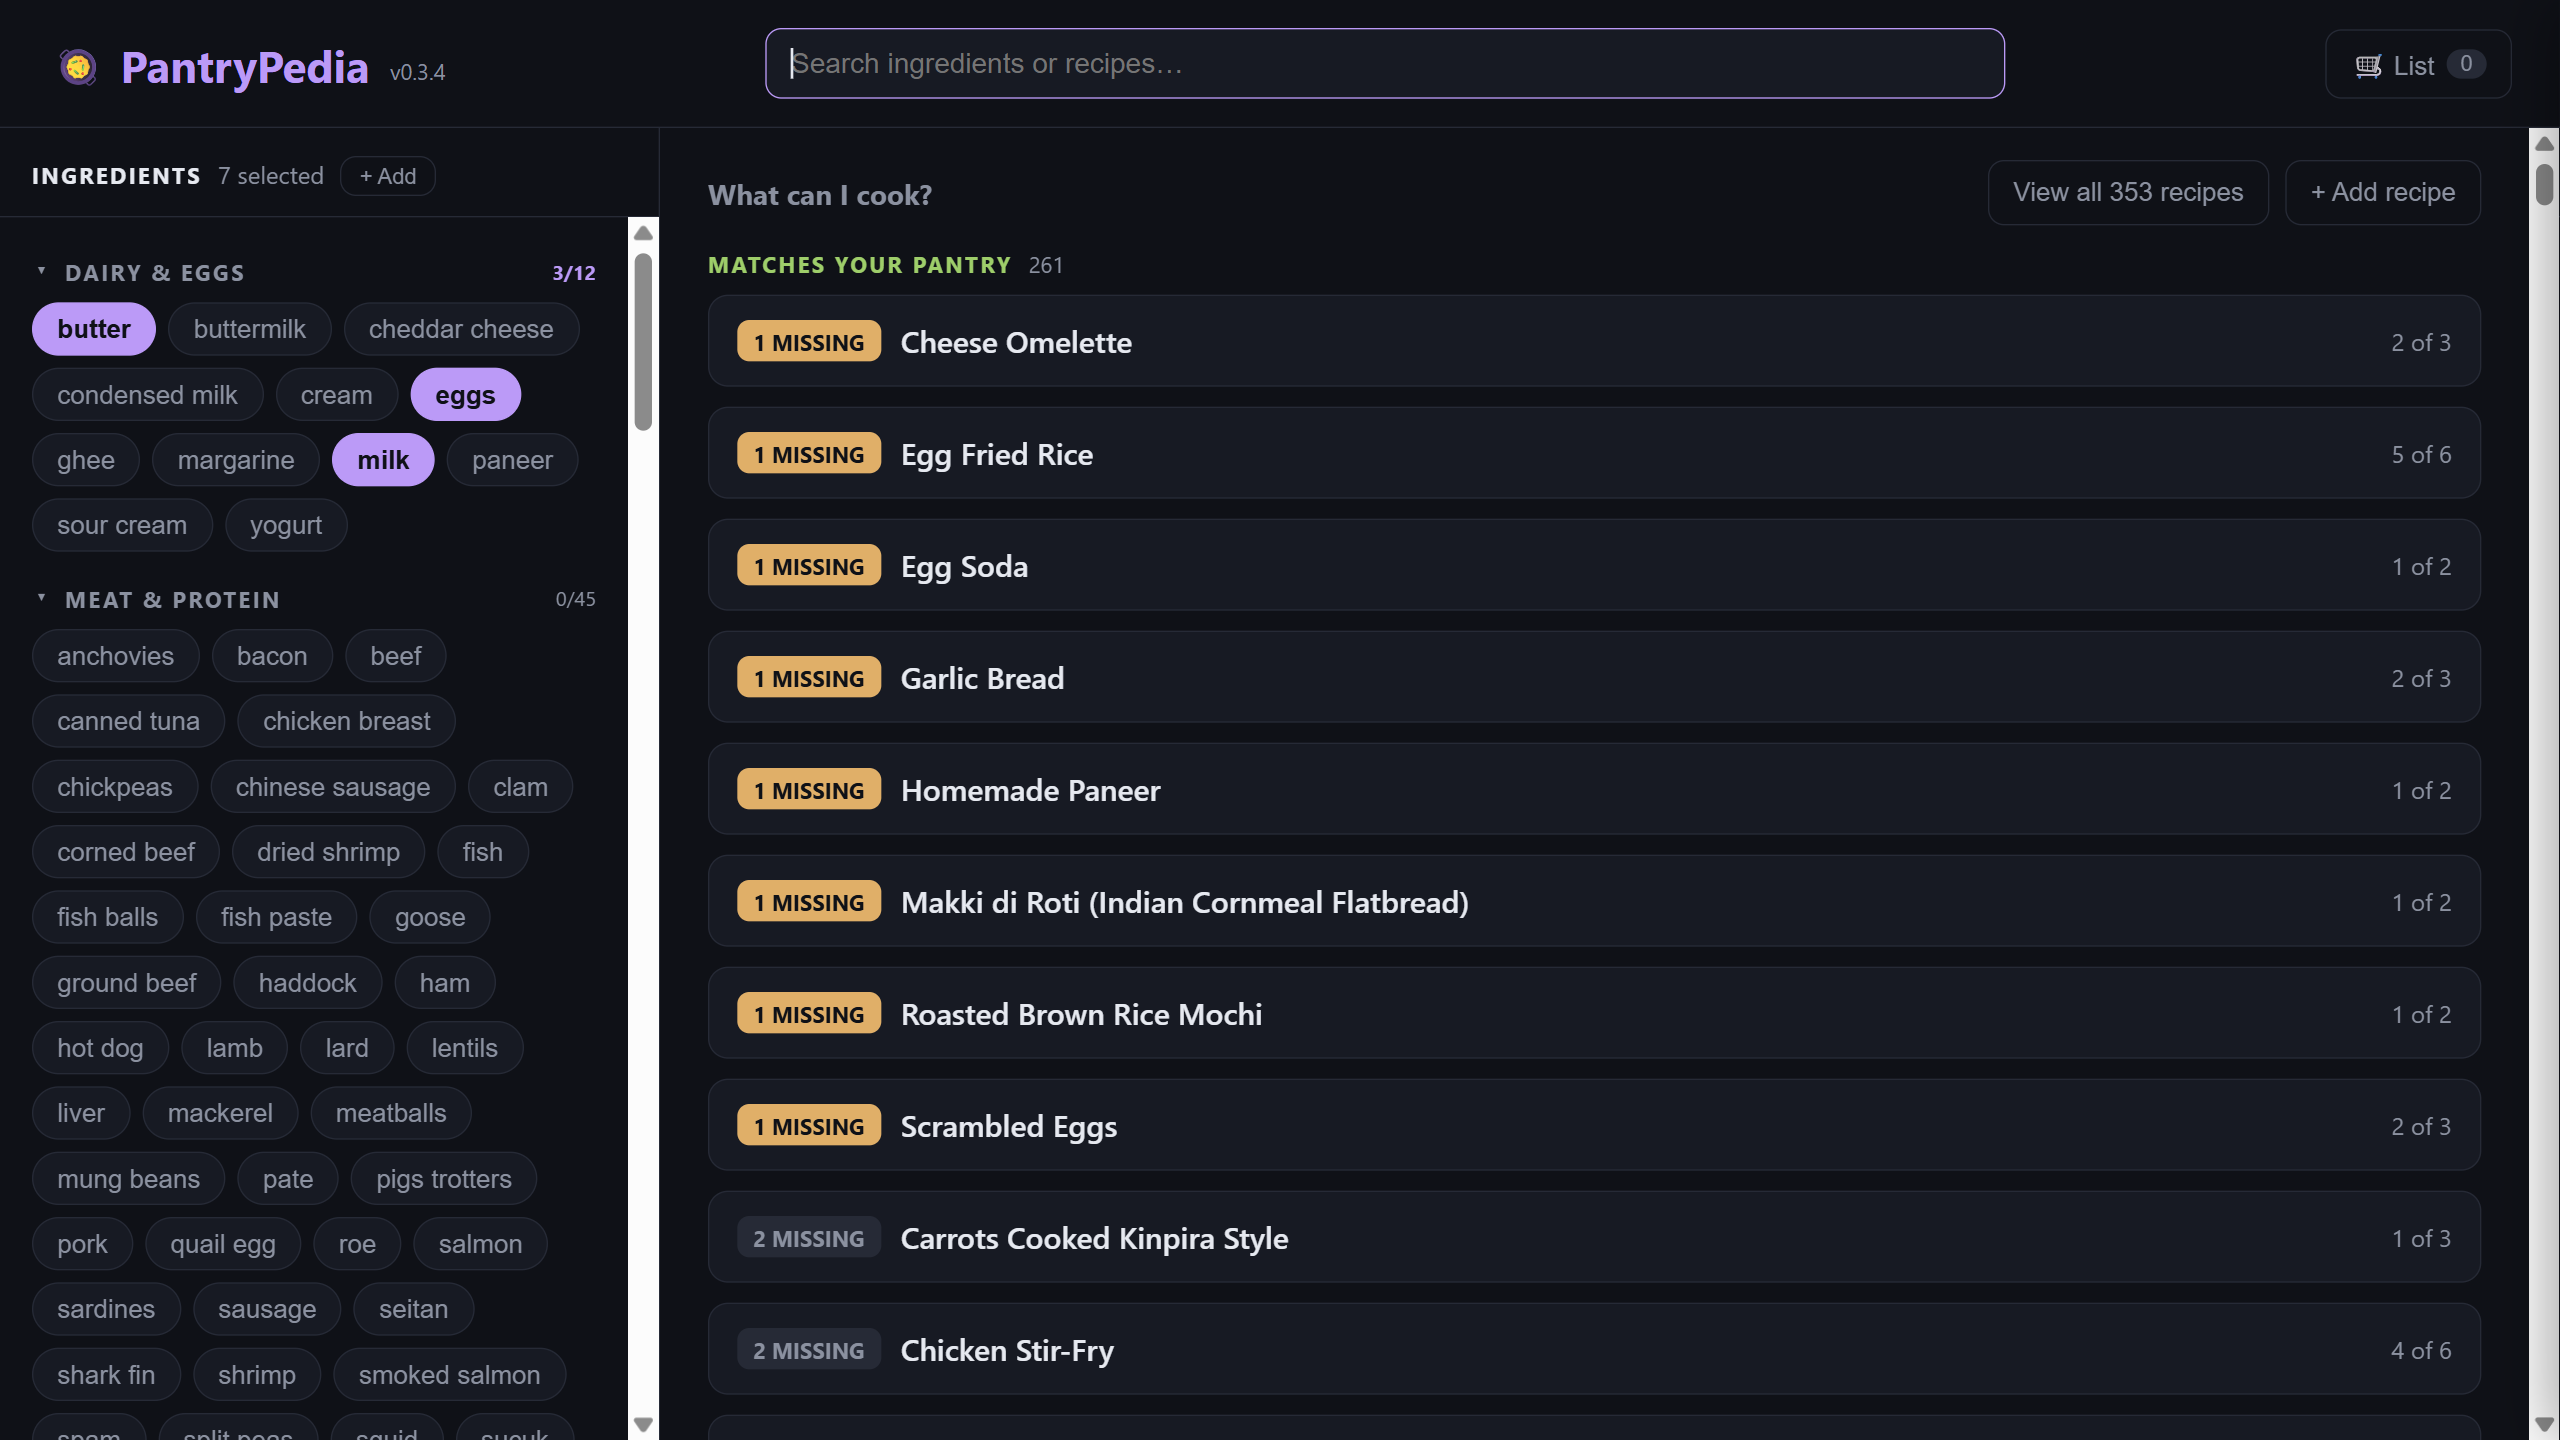
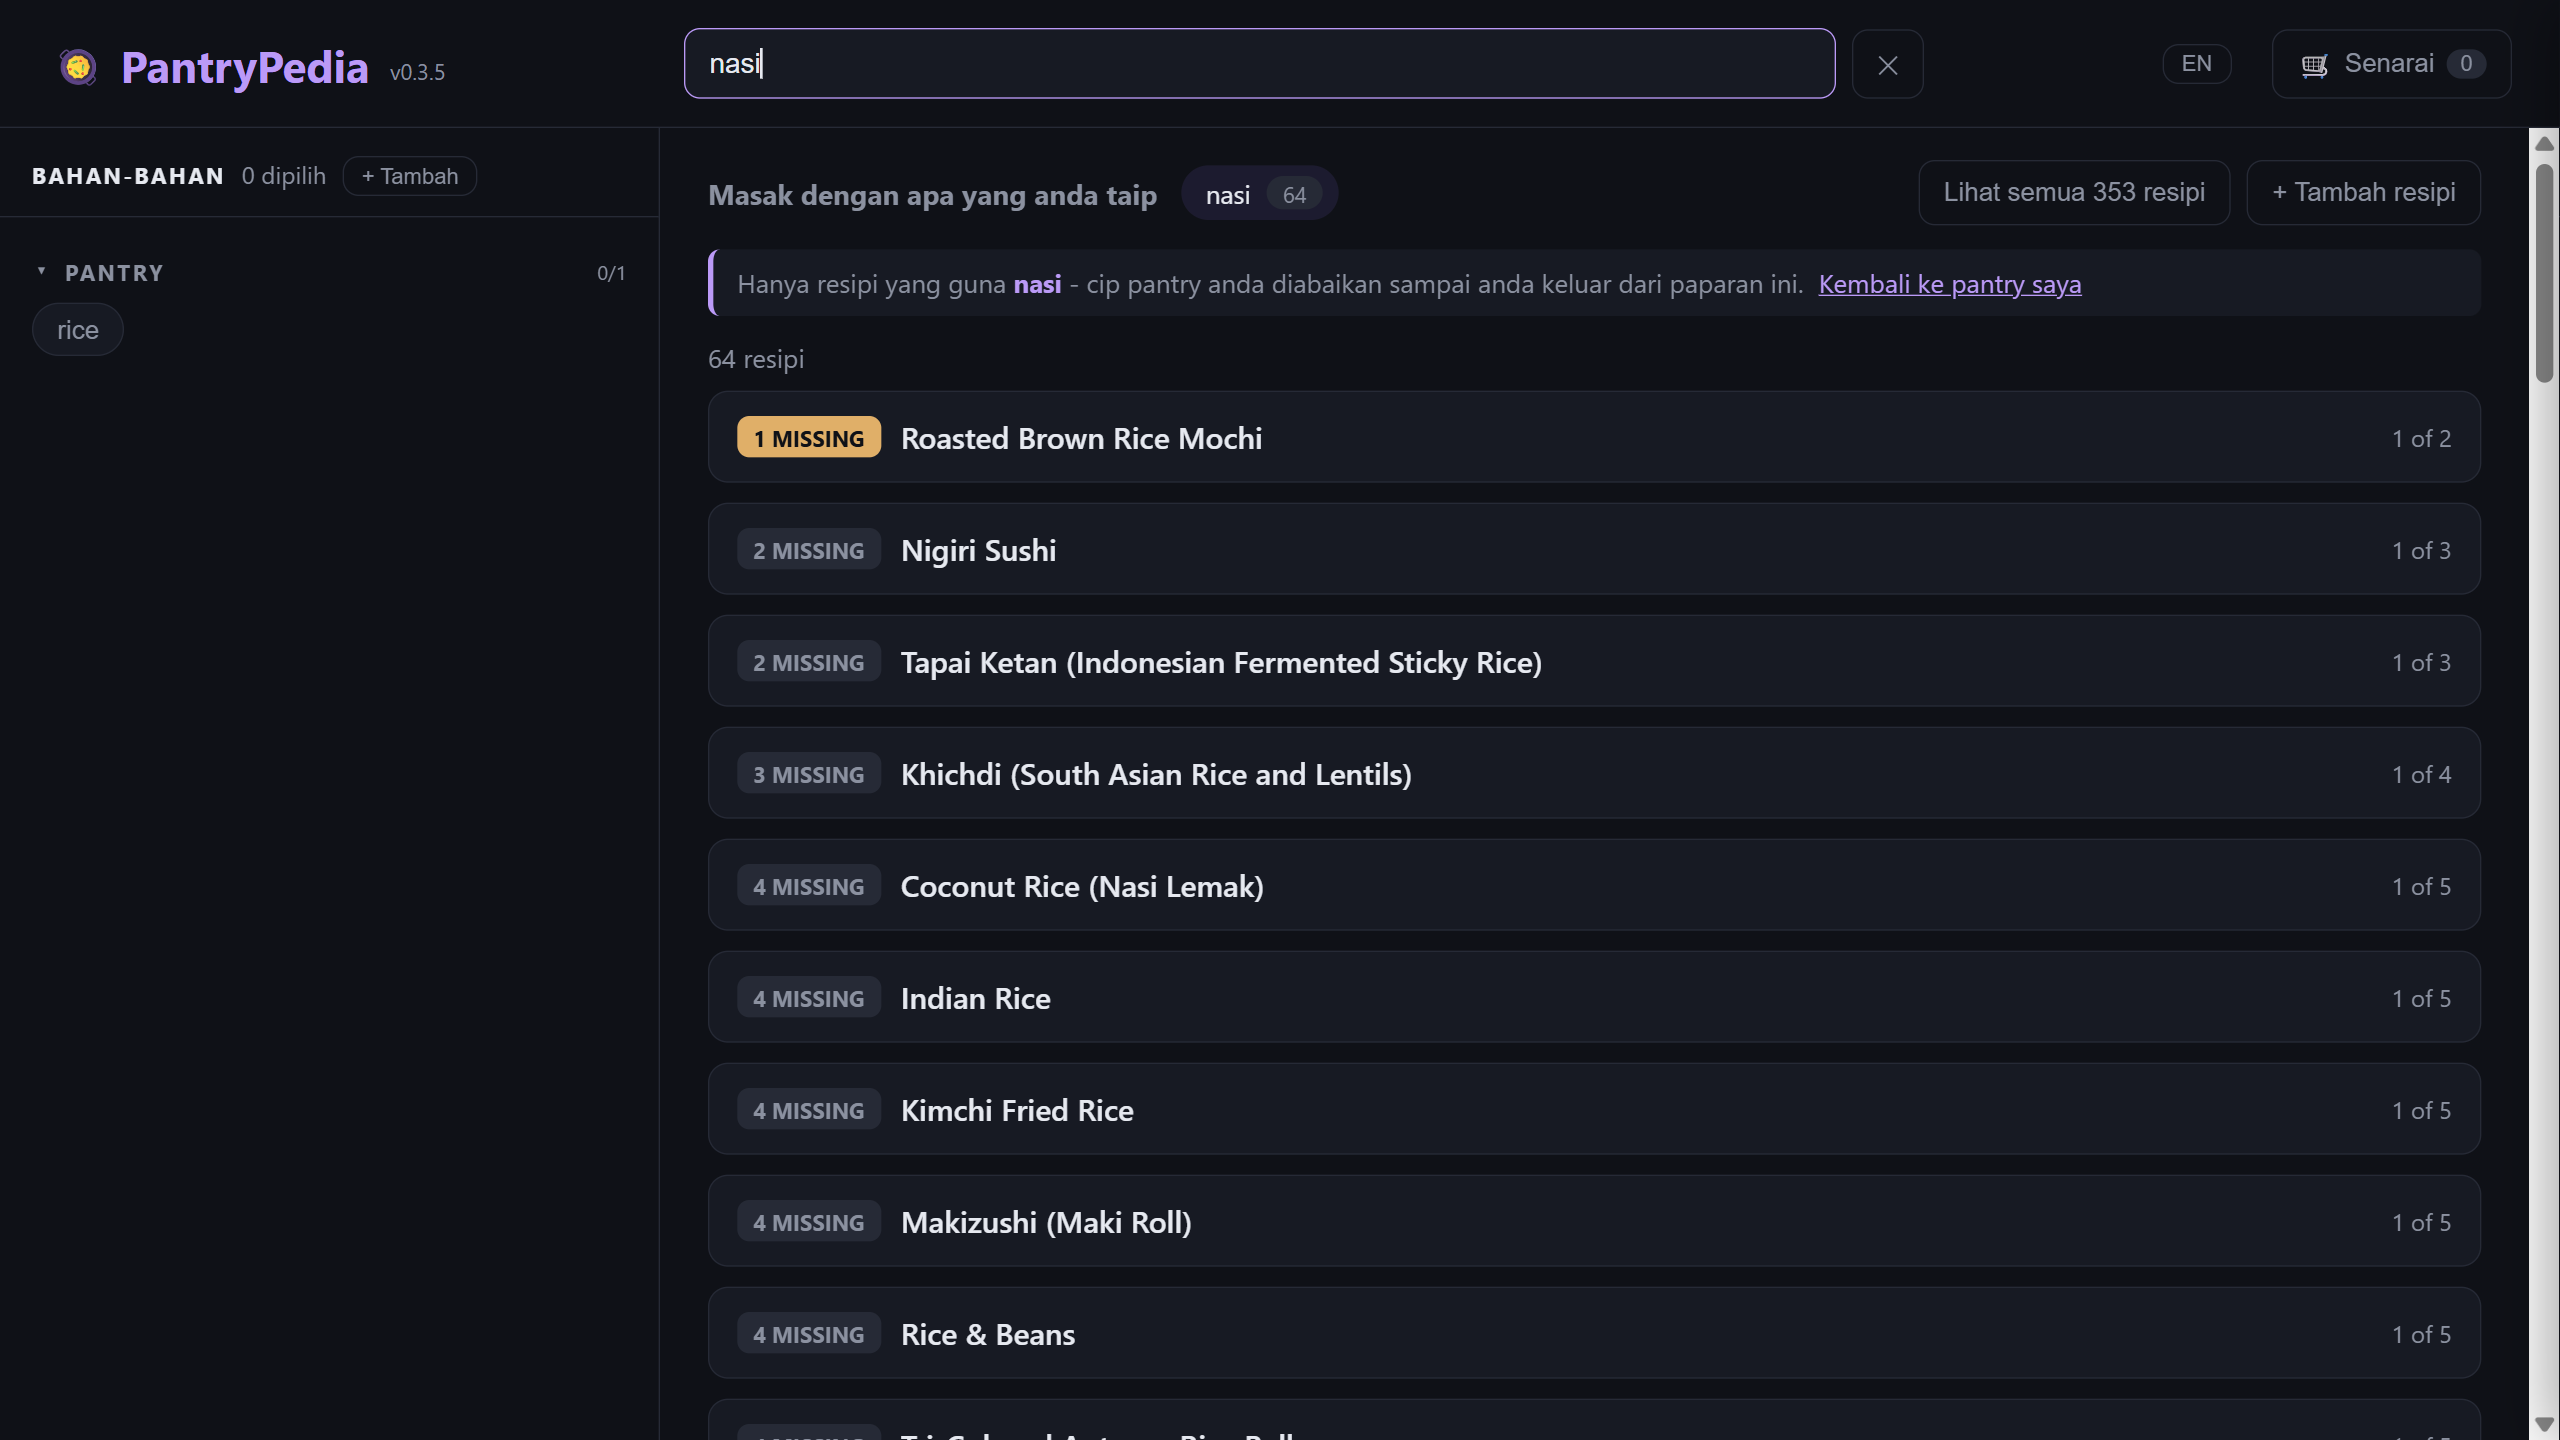
Release PantryPedia 0.3.5

diff --git a/tools/verify/capture-social-shot.js b/tools/verify/capture-social-shot.js
@@ -1,5 +1,6 @@
 // Capture a clean app screenshot for the GitHub social preview.
-// Launches through run-cdp.ps1 like the other suites.
+// Shows the 0.3.5 search chip: typing "nasi" ranks the recipes automatically
+// and the passive chip reports how many were found.
 import { writeFileSync } from "node:fs";
 import { connect } from "./cdp.mjs";
 
@@ -9,20 +10,26 @@ const { evaluate, send, waitFor } = await connect(port);
 
 await waitFor("!!document.querySelector('#match-list .start')");
 
-// A few everyday ingredients so the ranked list has something to show.
-await evaluate(`(async () => {
-  const invoke = window.__TAURI__.core.invoke;
-  const all = await invoke("get_ingredients");
-  const wanted = ["rice", "eggs", "butter", "garlic", "soy sauce", "milk", "onion", "chicken"];
-  for (const name of wanted) {
-    const i = all.find(x => x.name.toLowerCase() === name);
-    if (i && !i.in_pantry) await invoke("toggle_ingredient", { id: i.id });
-  }
+// Malay UI, as the new card advertises.
+await evaluate(`
+  localStorage.setItem("pantrypedia.lang", "ms");
   location.reload();
-})()`);
+`);
+await new Promise((r) => setTimeout(r, 1800));
+await waitFor("!!document.querySelector('#match-list .start')");
 
-await new Promise((r) => setTimeout(r, 1600));
-await waitFor("document.querySelectorAll('#match-list details.recipe').length > 0");
+// Type a Malay ingredient: the debounced search runs on its own.
+await evaluate(`(async () => {
+  const input = document.querySelector("#search");
+  input.value = "nasi";
+  input.dispatchEvent(new Event("input", { bubbles: true }));
+  input.dispatchEvent(new KeyboardEvent("keydown", { key: "Enter", bubbles: true }));
+  await new Promise(r => setTimeout(r, 900));
+  return {
+    chip: document.querySelector("#quick-chip")?.textContent.trim() ?? null,
+    cards: document.querySelectorAll("#match-list details.recipe").length,
+  };
+})()`);
 
 // Render at 2x so the card can scale it down without going blurry.
 await send("Emulation.setDeviceMetricsOverride", {
@@ -39,13 +46,16 @@ const shot = await send("Page.captureScreenshot", {
 });
 writeFileSync(out, Buffer.from(shot.result.data, "base64"));
 
-// Leave the test database as we found it.
+// Leave no trace: clear the search and restore English for the next suite.
 await evaluate(`(async () => {
   const invoke = window.__TAURI__.core.invoke;
-  for (const i of await invoke("get_ingredients")) {
-    if (i.in_pantry) await invoke("toggle_ingredient", { id: i.id });
-  }
-  return "clean";
+  const input = document.querySelector("#search");
+  const back = document.querySelector("#quick-off");
+  if (back) back.click();
+  input.value = "";
+  input.dispatchEvent(new Event("input", { bubbles: true }));
+  localStorage.setItem("pantrypedia.lang", "en");
+  await invoke("clear_shopping_list");
 })()`);
 
 console.log(`saved ${out}`);

diff --git a/README.md b/README.md
@@ -87,6 +87,15 @@ yourself with WhatsApp, Telegram, Phone Link, whatever you already use.
 
 ## Changelog
 
+**0.3.5** — PantryPedia now understands Malaysian groceries in Bahasa Melayu.
+Search `beras`, `ayam`, `bawang merah` or `kicap` and you get the same recipes as
+`rice`, `chicken`, `shallot` or `soy sauce` — 194 aliases from data.gov.my's
+PriceCatcher lookup. An **EN / BM** button in the header switches the app's own
+text between English and Malay and remembers your choice; recipe titles and
+steps stay in their source language. Typing also got simpler: matching recipes
+appear on their own, and the "Cook with …" button became a quiet `nasi 64` chip
+showing the word and how many recipes use it.
+
 **0.3.4** — the **🛒 Add 2 missing to list** button moved into the "you still
 need ..." row, next to the ingredient chips it puts on the list. It used to sit
 above the steps, a screen away from the chips that explain it. Same button, same
@@ -96,9 +105,9 @@ behaviour — just where you would look for it.
 once, which said nothing about what to do next; the default view is now a short
 "start with what's in your kitchen" panel, and the full A–Z list sits behind
 **View all recipes** (on that panel, and in the header — where the same button
-turns into "← Back"). **Cook with "…" →** now names the words it will use: it
-cooks with the *search box*, not with your pantry chips, and the banner says so
-in as many words and offers **Back to my pantry**. Ingredient categories fold:
+turns into "← Back"). The search banner now says plainly that it cooks with
+the *search box*, not with your pantry chips, and offers **Back to my pantry**.
+Ingredient categories fold:
 each header shows how many of that group you have ("2/12") and, folded, lists
 them by name, so you can check and edit one corner of the pantry at a time.
 Typing in the search bar always unfolds groups, so a search can never hide its
